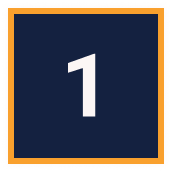
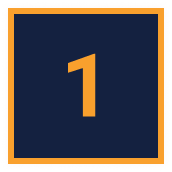
Connect btw. submenu and game

Changed region(s): [[0.3779, 0.2907, 0.5814, 0.6977]]

diff --git a/src/scenes/SubMenuScene.ts b/src/scenes/SubMenuScene.ts
@@ -1,12 +1,18 @@
 import Phaser from 'phaser';
 
 interface SubMenuSceneData {
-  selectedMission: number;
+  level: number;
+  mission: number;
 }
 
 export default class SubMenuScene extends Phaser.Scene {
   private iconBack!: Phaser.GameObjects.Image;
   private missionBtn1!: Phaser.GameObjects.Image;
+  private missionBtn2!: Phaser.GameObjects.Image;
+  private missionBtn3!: Phaser.GameObjects.Image;
+  private missionBtn4!: Phaser.GameObjects.Image;
+  private selectedMission: number = 0;
+
   constructor() {
     super({ key: 'SubMenuScene' });
   }
@@ -19,9 +25,16 @@ export default class SubMenuScene extends Phaser.Scene {
       subMenuImg1: 'assets/SubMenuImg1.png',
       subMenuImg2: 'assets/SubMenuImg2.png',
       subMenuImg3: 'assets/SubMenuImg3.png',
-      missionBtnNumber: 'assets/MissionBtnNumber.png',
+      missionBtn1: 'assets/MissionBtn1.png',
+      missionBtn2: 'assets/MissionBtn2.png',
+      missionBtn3: 'assets/MissionBtn3.png',
+      missionBtn4: 'assets/MissionBtn4.png',
       missionBtn1Hover: 'assets/MissionBtn1Hover.png',
+      missionBtn2Hover: 'assets/MissionBtn2Hover.png',
+      missionBtn3Hover: 'assets/MissionBtn3Hover.png',
+      missionBtn4Hover: 'assets/MissionBtn4Hover.png',
       missionBtnLock: 'assets/MissionBtnLock.png',
+      missionBtnLockHover: 'assets/MissionBtnLockHover.png',
     };
     for (let key in imageSources) {
       if (imageSources.hasOwnProperty(key)) {
@@ -33,38 +46,53 @@ export default class SubMenuScene extends Phaser.Scene {
   create(data: SubMenuSceneData) {
     this.add.image(0, 0, 'backgroundImg').setOrigin(0, 0);
     this.iconBack = this.add.image(106, 90, 'iconBack');
-    this.iconBack.setInteractive().on('pointerdown', () => {
-      this.iconBack.setTexture('iconBackClick');
+    this.iconBack.setInteractive();
+    this.iconBack.on('pointerdown', () => {
       this.cameras.main.fadeOut(1000, 0, 0, 0, (_: any, progress: number) => {
         this.scene.start('MenuScene', {
-          selectedMission: data.selectedMission,
+          level: data.level,
         });
       });
     });
+    this.iconBack.on('pointerover', () => {
+      this.iconBack.setTexture('iconBackClick');
+    });
+    this.iconBack.on('pointerout', () => {
+      this.iconBack.setTexture('iconBack');
+    });
 
-    this.missionBtn1 = this.add.image(255, 543, 'missionBtnNumber');
+    this.missionBtn1 = this.add.image(255, 543, 'missionBtn1');
     this.add.image(429, 543, 'missionBtnLock');
     this.add.image(603, 543, 'missionBtnLock');
     this.add.image(777, 543, 'missionBtnLock');
 
     this.missionBtn1.setInteractive().on('pointerdown', () => {
+      this.selectedMission = 1;
       this.missionBtn1.setTexture('missionBtn1Hover');
       this.cameras.main.fadeOut(500, 0, 0, 0, (_: any, progress: number) => {
-        if (progress === 1) {
-          // 페이드 아웃이 완료되면 새 장면 시작
-          this.scene.start('GameScene');
-        }
+        this.handleImageClick(data.level);
+
+        // if (progress === 1) {
+        //   // 페이드 아웃이 완료되면 새 장면 시작
+        //   this.scene.start('GameScene');
+        // }
       });
     });
+    this.missionBtn1.on('pointerover', () => {
+      this.missionBtn1.setTexture('missionBtn1Hover');
+    });
+    this.missionBtn1.on('pointerout', () => {
+      this.missionBtn1.setTexture('missionBtn1');
+    });
 
-    if (data.selectedMission) {
-      console.log('data.selectedMission: ', data.selectedMission);
-      this.setSubMenuImg(data.selectedMission);
+    if (data.level) {
+      console.log('data.level: ', data.level);
+      this.setupInitialImg(data.level);
     }
   }
 
-  setSubMenuImg = (selectedMission: number): void => {
-    switch (selectedMission) {
+  setupInitialImg = (level: number): void => {
+    switch (level) {
       case 1:
         this.add.image(540, 243, 'subMenuImg1');
         break;
@@ -78,4 +106,34 @@ export default class SubMenuScene extends Phaser.Scene {
         console.log('Mission must be selected!');
     }
   };
+
+  handleImageClick(selectedLevel: number) {
+    const level = selectedLevel;
+
+    let mission: number;
+    switch (this.selectedMission) {
+      case 1:
+        mission = 1;
+        break;
+      case 2:
+        mission = 2;
+        break;
+      case 3:
+        mission = 3;
+        break;
+      case 4:
+        mission = 4;
+        break;
+      default:
+        console.log('Unknown image');
+        return;
+    }
+
+    this.cameras.main.fadeOut(500, 0, 0, 0, (_: any, progress: number) => {
+      if (progress === 1) {
+        // 페이드 아웃이 완료되면 새 장면 시작
+        this.scene.start('GameScene', { level: level, mission: mission });
+      }
+    });
+  }
 }

diff --git a/src/scenes/PlaygroundScene.ts b/src/scenes/PlaygroundScene.ts
@@ -4,6 +4,11 @@ import TunnelFinder from '../tasks/TunnelFinder';
 import { StateInput } from '../classes/InputManager';
 import StateCircle from '../classes/StateCircle';
 
+interface PlaygroundSceneData {
+  level: number;
+  mission: number;
+}
+
 export default class PlaygroundScene extends Phaser.Scene {
   private stateCircles: StateCircle[] = [];
   private stateInputData: { id: number; stateInputs: StateInput[] }[] = [];
@@ -16,6 +21,10 @@ export default class PlaygroundScene extends Phaser.Scene {
   containerGraphics!: Phaser.GameObjects.Graphics;
   tileGraphics!: Phaser.GameObjects.Graphics;
   private highlightSelected: boolean = false;
+  private selectedLevel: number = 0;
+  private selectedMission: number = 0;
+  private iconBack!: Phaser.GameObjects.Image;
+  private iconReset!: Phaser.GameObjects.Image;
 
   constructor() {
     super('PlaygroundScene');
@@ -34,7 +43,10 @@ export default class PlaygroundScene extends Phaser.Scene {
     lineColorAlpha: 128 / 255,
   };
 
-  create() {
+  create(data: PlaygroundSceneData) {
+    this.selectedLevel = data.level;
+    this.selectedMission = data.mission;
+
     this.events.on(
       'stateInputDataUpdated',
       this.handleStateCirclesUpdated,
@@ -76,10 +88,26 @@ export default class PlaygroundScene extends Phaser.Scene {
       ); // Horizontal line
     }
 
-    // Task 생성
-    // this.taskStars = new Stars(this, 30, 90);
+    this.iconBack = this.add.image(50, 50, 'iconBack').setInteractive();
+    this.iconBack.on('pointerover', () => {
+      this.iconBack.setTexture('iconBackClick');
+    });
+    this.iconBack.on('pointerout', () => {
+      this.iconBack.setTexture('iconBack');
+    });
 
-    this.tunnelFinder = new TunnelFinder(this, 60, 180);
+    this.iconReset = this.add.image(100, 50, 'iconReset').setInteractive();
+    this.iconReset.on('pointerover', () => {
+      this.iconReset.setTexture('iconResetClick');
+    });
+    this.iconReset.on('pointerout', () => {
+      this.iconReset.setTexture('iconReset');
+    });
+
+    // Task 생성
+    this.gameLoader(this.selectedLevel, this.selectedMission);
+    // this.taskStars = new Stars(this, 30, 90);
+    // this.tunnelFinder = new TunnelFinder(this, 60, 180);
 
     // Play Button
     this.playButton = this.add.sprite(65, 645, 'playButton').setInteractive();
@@ -139,4 +167,23 @@ export default class PlaygroundScene extends Phaser.Scene {
       );
     }
   }
+
+  gameLoader = (level: number, mission: number) => {
+    switch (level) {
+      case 1:
+        switch (mission) {
+          case 1:
+            this.taskStars = new Stars(this, 30, 90);
+            break;
+        }
+        break;
+      case 2:
+        switch (mission) {
+          case 1:
+            this.tunnelFinder = new TunnelFinder(this, 30, 90);
+            break;
+        }
+        break;
+    }
+  };
 }

diff --git a/src/scenes/MenuScene.ts b/src/scenes/MenuScene.ts
@@ -1,7 +1,7 @@
 import Phaser from 'phaser';
 
 interface MenuSceneData {
-  selectedMission: number;
+  level: number;
 }
 
 export default class MenuScene extends Phaser.Scene {
@@ -38,7 +38,7 @@ export default class MenuScene extends Phaser.Scene {
       .graphics({ fillStyle: { color: 0xfcf6f5 } })
       .fillRect(0, 0, 1080, 810);
 
-    this.setupInitialImages(data.selectedMission);
+    this.setupInitialImages(data.level);
 
     this.startPoint = new Phaser.Geom.Point();
     this.endPoint = new Phaser.Geom.Point();
@@ -75,6 +75,7 @@ export default class MenuScene extends Phaser.Scene {
     this.cameras.main.fadeIn(500, 0, 0, 0);
   }
 
+  // Set inital images according to level (considering back from subMenu)
   setupInitialImages = (level?: number): void => {
     switch (level) {
       case 1:
@@ -115,6 +116,31 @@ export default class MenuScene extends Phaser.Scene {
       }
     });
   };
+
+  handleImageClick() {
+    let level: number;
+    switch (this.currentImage.texture.key) {
+      case 'menuImg1':
+        level = 1;
+        break;
+      case 'menuImg2':
+        level = 2;
+        break;
+      case 'menuImg3':
+        level = 3;
+        break;
+      default:
+        console.log('Unknown image');
+        return;
+    }
+
+    this.cameras.main.fadeOut(500, 0, 0, 0, (_: any, progress: number) => {
+      if (progress === 1) {
+        // 페이드 아웃이 완료되면 새 장면 시작
+        this.scene.start('SubMenuScene', { level: level });
+      }
+    });
+  }
 
   handleSwipe() {
     const swipeDirection =
@@ -264,30 +290,5 @@ export default class MenuScene extends Phaser.Scene {
         return;
       }
     }
-  }
-
-  handleImageClick() {
-    let selectedMission: number;
-    switch (this.currentImage.texture.key) {
-      case 'menuImg1':
-        selectedMission = 1;
-        break;
-      case 'menuImg2':
-        selectedMission = 2;
-        break;
-      case 'menuImg3':
-        selectedMission = 3;
-        break;
-      default:
-        console.log('Unknown image');
-        return;
-    }
-
-    this.cameras.main.fadeOut(500, 0, 0, 0, (_: any, progress: number) => {
-      if (progress === 1) {
-        // 페이드 아웃이 완료되면 새 장면 시작
-        this.scene.start('SubMenuScene', { selectedMission: selectedMission });
-      }
-    });
   }
 }

diff --git a/src/scenes/Game.ts b/src/scenes/Game.ts
@@ -1,5 +1,10 @@
 import Phaser from 'phaser';
 
+interface GameSceneData {
+  level: number;
+  mission: number;
+}
+
 export default class Game extends Phaser.Scene {
   constructor() {
     super('GameScene');
@@ -14,6 +19,11 @@ export default class Game extends Phaser.Scene {
       // Images for StateCircle
       stateCircle: 'assets/StateCircle1.png',
       stateCircleSelected: 'assets/StateCircleSelected1.png',
+      // Images for Button on Header
+      iconBack: 'assets/IconBack.png',
+      iconBackClick: 'assets/IconBackClick.png',
+      iconReset: 'assets/IconReset.png',
+      iconResetClick: 'assets/IconResetClick.png',
       // Images for ControlButtons
       addButton: 'assets/AddButton.png',
       addButtonSelected: 'assets/AddButtonSelected.png',
@@ -70,13 +80,16 @@ export default class Game extends Phaser.Scene {
     }
   }
 
-  create() {
+  create(data: GameSceneData) {
     this.cameras.main.fadeIn(500, 0, 0, 0);
 
     this.scene.launch('BackgroundScene');
     this.scene.launch('DiagramScene');
     this.scene.launch('InputWindowScene');
-    this.scene.launch('PlaygroundScene');
+    this.scene.launch('PlaygroundScene', {
+      level: data.level,
+      mission: data.mission,
+    });
 
     // Set up a pointer move event listener
     // this.input.on('pointermove', (pointer: Phaser.Input.Pointer) => {

diff --git a/src/scenes/StartScene.ts b/src/scenes/StartScene.ts
@@ -36,7 +36,7 @@ export default class StateScene extends Phaser.Scene {
       this.startBtn.setTexture('startBtn');
     });
     this.startBtn.on('pointerdown', () => {
-      this.cameras.main.fadeOut(500, 0, 0, 0, (_: any, progress: number) => {
+      this.cameras.main.fadeOut(300, 0, 0, 0, (_: any, progress: number) => {
         if (progress === 1) {
           // 페이드 아웃이 완료되면 새 장면 시작
           this.scene.start('MenuScene');
